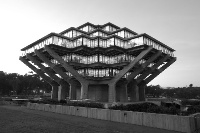
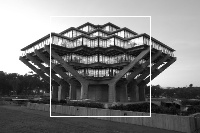
created organize py

diff --git a/organize_data.py b/organize_data.py
@@ -1,0 +1,72 @@
+import os
+import shutil
+import random
+
+source = '/home/wintermute/Desktop/University/face-recognition/images'
+test = '/home/wintermute/Desktop/University/face-recognition/Data/Test'
+train = '/home/wintermute/Desktop/University/face-recognition/Data/Train'
+valid = '/home/wintermute/Desktop/University/face-recognition/Data/Validation'
+
+#Get all the directories that contain the images
+files = os.listdir(source)
+
+for f in files:
+	#Get all the images in the current directory
+	img = os.listdir(source + '/' + f)
+	
+	#Percent full numbers
+	test_full = 0
+	train_full = 0
+	valid_full = 0
+
+	#Random number from 0 to 10
+	rand = 0
+
+	#Number of images in directory
+	num = len(img)
+
+	#Number of files equivalent to the percent of total files
+	p1 = num * .7
+	p2 = num * .1
+	p3 = num * .2
+
+	
+	for i in img:
+		#Generate random num 0 - 10
+		rand = random.randint(1, 10)
+		
+		#If the random was 7 or less(70%)
+		if(rand <= 7):
+			if(train_full < p1):
+				shutil.copy(source + '/'+ f + '/' + i, train + '/' + f + '/' + i)
+				train_full += 1
+			elif(valid_full < p2):
+				shutil.copy(source + '/' + f + '/' + i, valid + '/' + f + '/' + i)
+				valid_full += 1
+			else:
+				shutil.copy(source + '/' + f + '/' + i, test + '/' + f + '/' + i)
+				test_full += 1
+
+		#This is the 20% range
+		elif(rand > 7 and rand <= 9):
+			if(valid_full < p2):
+				shutil.copy(source + '/' + f + '/' + i, valid + '/' + f + '/' + i)
+				valid_full += 1
+			elif(train_full < p1):
+				shutil.copy(source + '/'+ f + '/' + i, train + '/' + f + '/' + i)
+				train_full += 1
+			else:
+				shutil.copy(source + '/' + f + '/' + i, test + '/' + f + '/' + i)
+				test_full += 1
+
+		#This is the 10% range
+		else:
+			if(test_full < p3):
+				shutil.copy(source + '/' + f + '/' + i, test + '/' + f + '/' + i)
+				test_full += 1
+			elif(train_full < p1):
+				shutil.copy(source + '/'+ f + '/' + i, train + '/' + f + '/' + i)
+				train_full += 1
+			else:
+				shutil.copy(source + '/' + f + '/' + i, valid + '/' + f + '/' + i)
+				valid_full += 1

diff --git a/project_1/create_cnn.py b/project_1/create_cnn.py
@@ -41,20 +41,28 @@ Modify this code to write a LeNet with the following requirements:
     activation function: softmax
     output 10-dimensional vector (This is specified through units.)
 """
-# TODO: Import other layers as necessary. (Conv2D, MaxPooling2D)
-from keras.layers import Input, Dense
+# DONE: Import other layers as necessary. (Conv2D, MaxPooling2D)
+from keras.layers import Input, Dense, Conv2D, MaxPooling2D
 from keras.models import Model
 
-# TODO: Currently, sets input dimension to be 784x1. Change to 32x32x1
-inputs = Input(shape=(784,))
+# DONE: Currently, sets input dimension to be 784x1. Change to 32x32x1
+inputs = Input(shape=(32,32,1)) #This returns a tensor
 
 # A layer instance is callable on a tensor, and returns a tensor
 x = Dense(64, activation='relu')(inputs)
 x = Dense(64, activation='relu')(x)
 predictions = Dense(10, activation='softmax')(x)
 
+leNet = Conv2D(6, kernel_size=5, activation='sigmoid')(inputs)
+leNet = MaxPooling2D(pool_size=(2, 2), strides=(2, 2))(leNet)
+leNet = Conv2D(16, kernel_size=5, activation='sigmoid')(leNet)
+leNet = MaxPooling2D(pool_size=(2, 2), strides=(2, 2))(leNet)
+leNet = Conv2D(120, kernel_size=5, activation='sigmoid')(leNet)
+leNet = Dense(84, activation='tanh')(leNet)
+leNet = Dense(10, activation='softmax')(leNet)
+
 # This creates a model that includes the Input layer and three Dense layers
-model = Model(inputs=inputs, outputs=predictions)
+model = Model(inputs=inputs, outputs=leNet)#output was predictions
 
 # Prints model architecture
 model.summary()

diff --git a/project_1/process_local.py b/project_1/process_local.py
@@ -16,14 +16,18 @@ All the above steps should be in one function called process_image()
 # Done: Import OpenCV
 import cv2
 
-# TODO: Edit this function
+# Done: Edit this function
 def process_image(filename):
     img = cv2.imread(filename, cv2.IMREAD_GRAYSCALE)
     #cv2.imshow("image",img)
     #cv2.waitKey(0)
     
     img = cv2.resize(img, (img.shape[1]/2, img.shape[0]/2))
-    #cv2.rectangle(img, Point(0,0), Point(img.shape[0],img.shape[1]), Scalar(255,255,255))
+    x1 = img.shape[1]/2 - 50
+    y1 = img.shape[0]/2 - 50
+    x2 = x1 + 100
+    y2 = y1 + 100
+    cv2.rectangle(img, (x1, y1), (x2, y2), (255,255,255))
     cv2.imwrite("geisel-bw-rectangle.jpg",img)
 
     return
@@ -33,7 +37,7 @@ def hello_world():
     print('Hello World!')
     return
 
-# TODO: Call process_image function.
+# Done: Call process_image function.
 def main():
     hello_world()
     process_image("geisel.jpg") 

diff --git a/project_1/hello_world.py b/project_1/hello_world.py
@@ -9,4 +9,15 @@ Author: Will Chen
 1. Write a Write a program that prints "Hello World!" and uses the main function convention.
 """
 
-# TODO: Write a program that prints "Hello World!" and uses a main function.
+# Done: Write a program that prints "Hello World!" and uses a main function.
+
+def helloWorld():
+    print("Hello World!")
+    return;
+
+def main():
+    helloWorld()
+    return;
+
+if(__name__ == '__main__'):
+    main()
